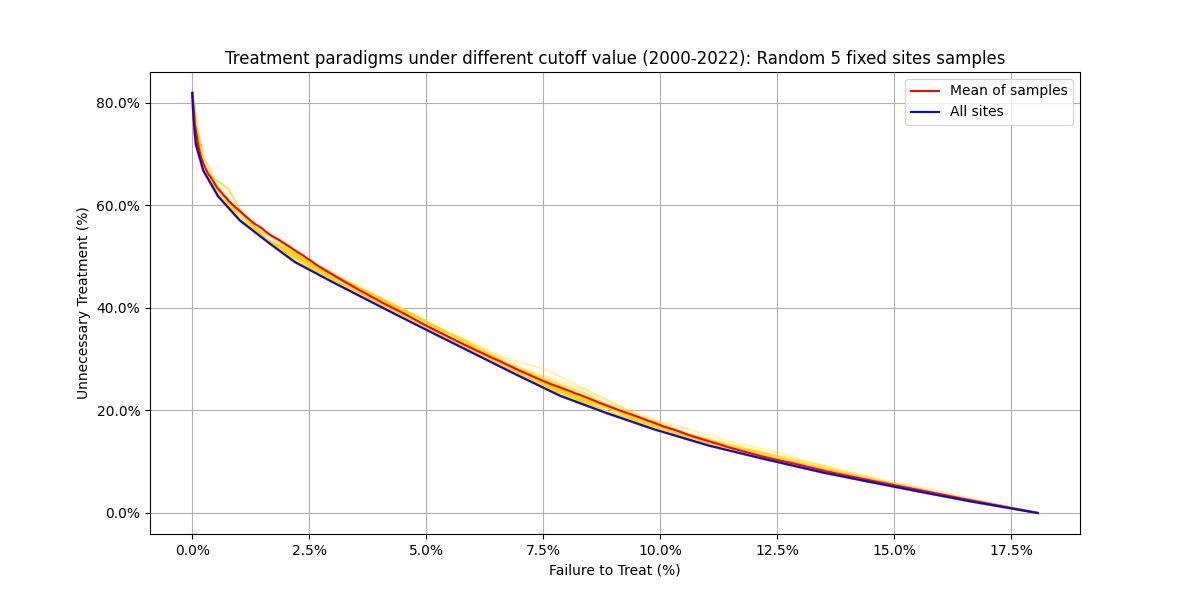
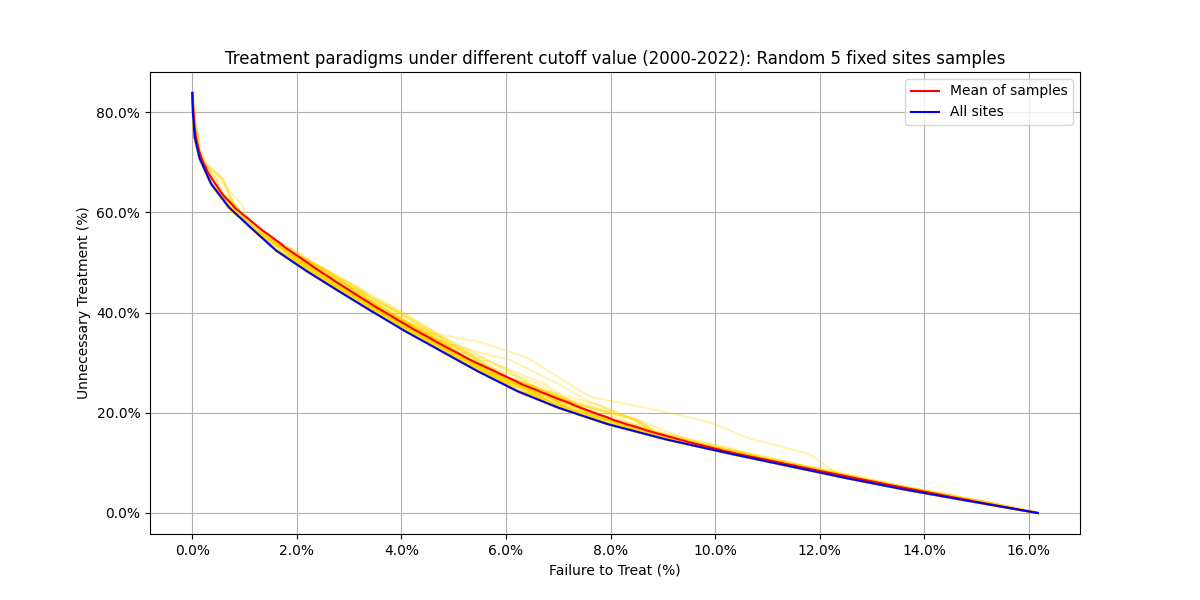
update

diff --git a/PlotRandomSampling.py b/PlotRandomSampling.py
@@ -12,6 +12,25 @@ dt=pd.read_csv("Data/CIP_summary.csv")
 dt=dt.drop(dt.columns[[0]],axis=1)
 dt['CipRsum_prevalence'] = dt['CipRsum']/dt['TOTAL']
 
+# suppose we only include the sites that are sampled every year
+def preprocess_data(data):
+
+    # Calculate min and max years
+    min_year = data['YEAR'].min()
+    max_year = data['YEAR'].max()
+    total_years = max_year - min_year + 1
+
+    # Filter out sites that are not sampled every year
+    site_counts = data.groupby('CLINIC')['YEAR'].nunique()
+    sites_with_all_years = site_counts[site_counts == total_years].index
+
+    filtered_data = data[data['CLINIC'].isin(sites_with_all_years)]
+
+    return filtered_data
+
+
+df1 = preprocess_data(df)
+dt1 = df1[df1.columns[1:4]].groupby('YEAR').sum().reset_index()
 
 # check what we get if we use all the sites each year for sampling
 def calculate_treatment_stats_sum(data, prevalence_values):
@@ -96,7 +115,7 @@ def plot_treatment_paradigms(results, total_stats, num_clinics):
 prevalence_values = np.arange(0, 1.000, 0.002)
 
 # Generate samples
-random_sample_results = generate_multiple_random_samples(df, num_clinics=5, num_samples=100, prevalence_values=prevalence_values)
+random_sample_results = generate_multiple_random_samples(df1, num_clinics=5, num_samples=100, prevalence_values=prevalence_values)
 
 # Calculate total stats
 total_stats = calculate_treatment_stats_sum(dt, prevalence_values)
@@ -109,7 +128,7 @@ plot_5.savefig('Figures/Random 5 sites.png')
 plt.show()
 
 # Generate samples
-random_sample_results_10 = generate_multiple_random_samples(df, num_clinics=10, num_samples=100, prevalence_values=prevalence_values)
+random_sample_results_10 = generate_multiple_random_samples(df1, num_clinics=10, num_samples=100, prevalence_values=prevalence_values)
 
 # Calculate total stats
 total_stats_10 = calculate_treatment_stats_sum(dt, prevalence_values)

diff --git a/PlotFixedSampling.py b/PlotFixedSampling.py
@@ -71,8 +71,8 @@ def generate_multiple_random_samples(df, num_clinics, num_samples, prevalence_va
         subset_df = select_random_clinics(df, num_clinics).drop(columns=['CLINIC'])
         subset_df_agg = subset_df.groupby('YEAR').sum().reset_index()
         subset_df_agg['CipRsum_prevalence']=subset_df_agg['CipRsum']/subset_df_agg['TOTAL']
-
-        dt5 = dt1.copy()
+        # we apply the
+        dt5 = dt.copy()
         dt5['CipRsum_prevalence'] = subset_df_agg['CipRsum_prevalence'].values
 
         treatment_stats = calculate_treatment_stats_sum(dt5, prevalence_values)
@@ -113,7 +113,7 @@ prevalence_values = np.arange(0, 1.002, 0.002)
 random_sample_results = generate_multiple_random_samples(df1, num_clinics=5, num_samples=100, prevalence_values=prevalence_values)
 
 # Calculate total stats
-total_stats = calculate_treatment_stats_sum(dt1, prevalence_values)
+total_stats = calculate_treatment_stats_sum(dt, prevalence_values)
 
 # Plot results
 plot_5 = plot_treatment_paradigms(random_sample_results['treatment_stats'], total_stats, num_clinics=5)
@@ -126,7 +126,7 @@ plt.show()
 random_sample_results_10 = generate_multiple_random_samples(df1, num_clinics=10, num_samples=100, prevalence_values=prevalence_values)
 
 # Calculate total stats
-total_stats_10 = calculate_treatment_stats_sum(dt1, prevalence_values)
+total_stats_10 = calculate_treatment_stats_sum(dt, prevalence_values)
 
 # Plot results
 plot_10 = plot_treatment_paradigms(random_sample_results_10['treatment_stats'], total_stats_10, num_clinics=10)

diff --git a/PlotCustomizedSampling.py b/PlotCustomizedSampling.py
@@ -88,5 +88,6 @@ plt.gca().yaxis.set_major_formatter(plt.FuncFormatter(lambda x, p: f'{x:.1%}'))
 plt.legend()
 plt.grid(True)
 plt.tight_layout()
+plt.savefig('Figures/Customized v.s Uniform.png')
 plt.show()
-plt.savefig('Figures/Customized v.s. Uniform.png')
+
